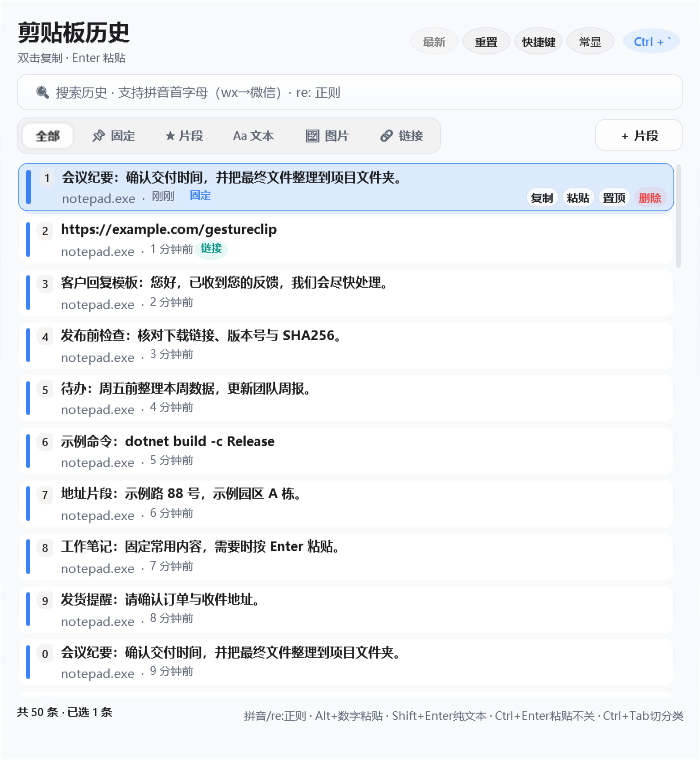
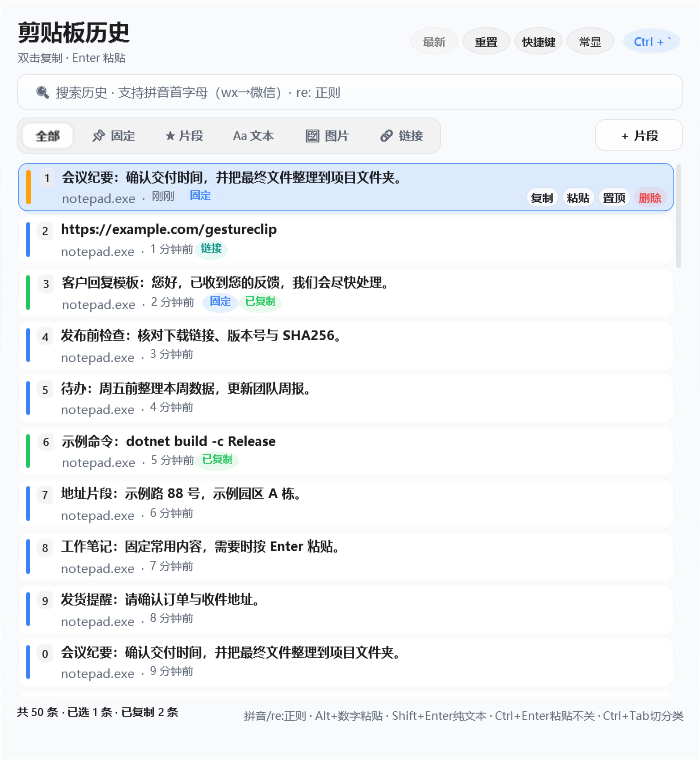
fix: restore clipboard history usage colors

diff --git a/src/GestureClip.App/ClipboardOverlayWindow.xaml b/src/GestureClip.App/ClipboardOverlayWindow.xaml
@@ -315,12 +315,10 @@
                                 </Grid.ColumnDefinitions>
                                 <!-- Type accent bar: blue/text · purple/image · orange/pin · green = 本会话已复制 -->
                                 <Border x:Name="TypeAccentBar"
-                                        Width="3"
                                         CornerRadius="2"
-                                        Background="{DynamicResource BrushPrimaryBright}"
                                         Margin="0,2,6,2"
                                         VerticalAlignment="Stretch"
-                                        ToolTip="左侧色条：蓝=文本 紫=图片 橙=置顶 绿=本会话已从历史复制">
+                                        ToolTip="左侧色条：蓝=文本 紫=图片 橙=置顶 绿=本次运行中已从历史复制或粘贴">
                                     <Border.Style>
                                         <Style TargetType="Border">
                                             <Setter Property="Background" Value="{DynamicResource BrushPrimaryBright}" />

diff --git a/tests/GestureClip.Tests/App/ThemeResourceTests.Clipboard.cs b/tests/GestureClip.Tests/App/ThemeResourceTests.Clipboard.cs
@@ -24,6 +24,15 @@ public sealed partial class ThemeResourceTests
         Assert.Contains("ScrollViewer.IsDeferredScrollingEnabled=\"True\"", xaml);
         Assert.Contains("<VirtualizingStackPanel />", xaml);
         Assert.Contains("Binding ThumbnailContent, IsAsync=True", xaml);
+        var accent = System.Xml.Linq.XDocument.Parse(xaml).Descendants().Single(node =>
+            (string?)node.Attribute(System.Xml.Linq.XName.Get("Name", "http://schemas.microsoft.com/winfx/2006/xaml")) == "TypeAccentBar");
+        Assert.Null(accent.Attribute("Background"));
+        Assert.Null(accent.Attribute("Width"));
+        Assert.Contains(accent.Descendants(), node =>
+            (string?)node.Attribute("Binding") == "{Binding IsSessionCopied}" &&
+            node.Elements().Any(setter => (string?)setter.Attribute("Property") == "Background" &&
+                (string?)setter.Attribute("Value") == "{DynamicResource BrushSuccess}"));
+
     }
 
 

diff --git a/README.md b/README.md
@@ -124,7 +124,7 @@
 ### 1. 剪贴板历史
 
 - 文本 + 图片 / 截图，支持搜索（拼音首字母 / `re:` 正则 / 链接筛选）、固定、收藏、多选合并复制
-- 左侧色条：蓝=文本 · 紫=图片 · 橙=置顶 · **绿=本会话已复制**
+- 条目从历史里成功复制或粘贴后，左侧色条变绿，并显示「已复制」。还没再次使用的记录保留类型颜色：蓝色为普通文本、紫色为图片、橙色为置顶。绿色在重启后重置。
 - **F2 就地编辑**：选中历史直接改内容，覆盖原记录不新建
 - **以文件形式复制**：文本变 .txt、图片变 .png，直接 Ctrl+V 粘贴到资源管理器
 - **生成二维码**：文本条目本机生成二维码，手机扫码带走，不上传
@@ -286,7 +286,7 @@ powershell -NoProfile -ExecutionPolicy Bypass -File .\scripts\check-ui-performan
 
 ## 截图
 
-以下界面来自 v0.6.48，使用示例数据。
+以下界面使用示例数据。剪贴板截图展示当前开发版的使用状态。
 
 | 首页 | 剪贴板设置 |
 | --- | --- |
